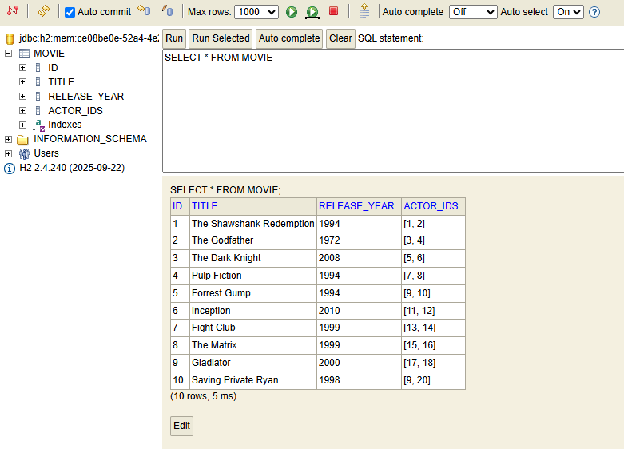
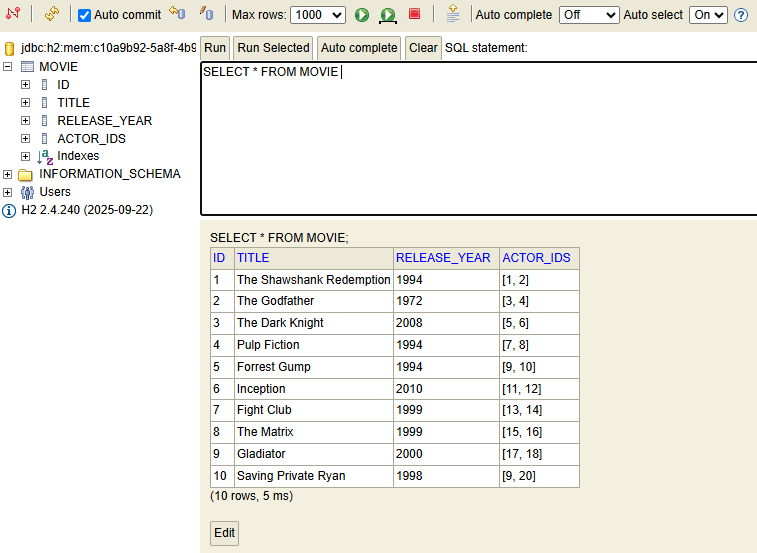
Updated README.md

Changed region(s): [[0.0, 0.0, 1.0, 1.0]]

diff --git a/README.md b/README.md
@@ -158,6 +158,38 @@ With the approporiate setup done, `http://localhost:<configured-port>/h2-console
 
 ![](/.images/trace-flix-h2-console-login.png)
 
-Locate the `Database JDBC URL` in the startup log, copy and paste the value into the `Login -> JDBC URL` and connect to the web console using the aproporiate `User Name` and `Password`.
+Locate the `Database JDBC URL` in the startup log, copy and paste the value into the `Login -> JDBC URL` and connect to the web console using the aproporiate `User Name` and `Password`. The console page will appear as below:
 
 ![](/.images/trace-flix-h2-console.png)
+
+> Sometimes Spring Boot refuses to auto-configure the H2 Console Servlet, even when the settings are correct.
+> In such a situation, we will need to explicitly register the H2 Console servlet.
+>
+> To explicitly register the console servlet, add this bean to the application class of the Spring Boot service.
+
+```java
+package com.ensanguine.movie;
+
+import org.h2.server.web.JakartaWebServlet;
+import org.springframework.boot.web.servlet.ServletRegistrationBean;
+import org.springframework.context.annotation.Bean;
+
+// Inside the main @SpringBootApplication class:
+@Bean
+public ServletRegistrationBean<JakartaWebServlet> h2ConsoleServletRegistration() {
+    ServletRegistrationBean<JakartaWebServlet> registrationBean =
+            new ServletRegistrationBean<>(new JakartaWebServlet(), "/h2-console/*");
+    registrationBean.setName("H2Console");
+    return registrationBean;
+}
+```
+
+> Recompile and restart the Docker container:
+
+```powershell
+mvnw clean package
+docker compose up --build
+```
+
+> When you check docker compose logs movie-service, you will see Tomcat map /h2-console/\*,
+> and navigating to http://localhost:8080/h2-console will load the login screen.
